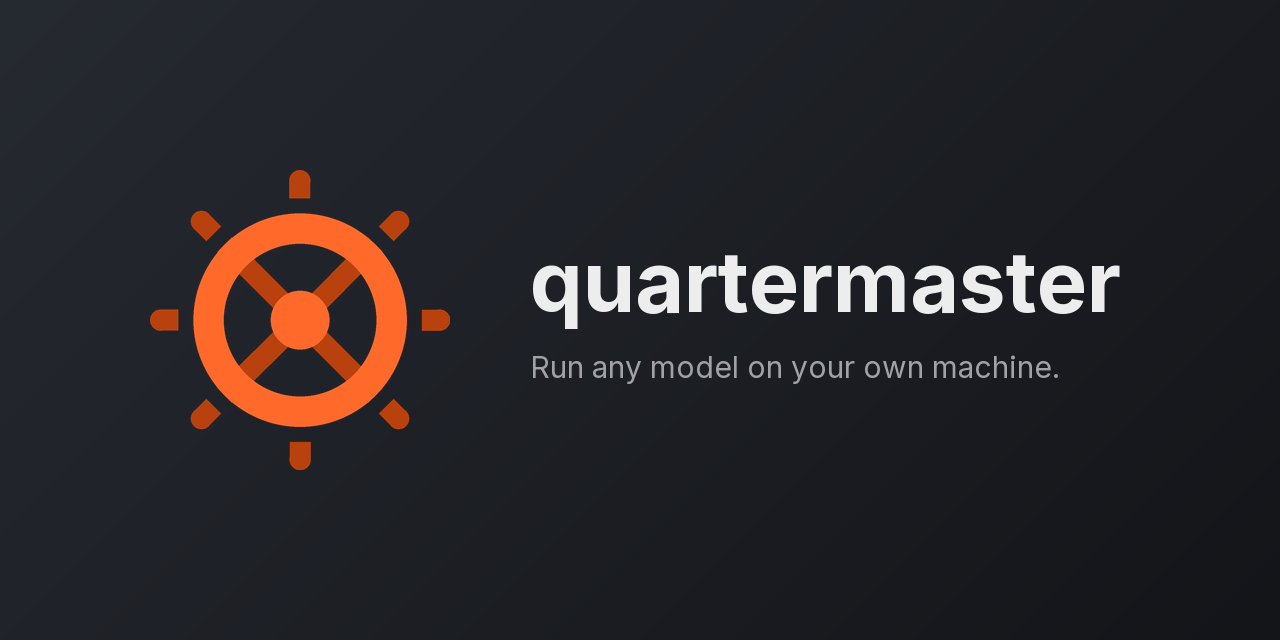
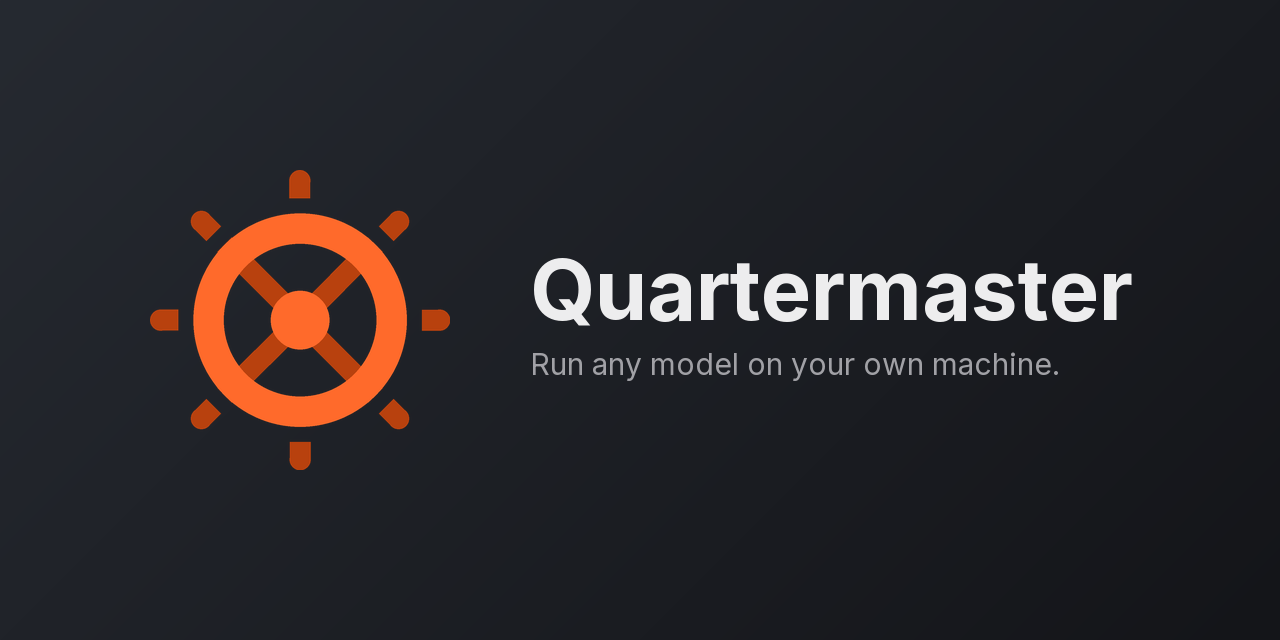
fix preview png

Changed region(s): [[0.4062, 0.4062, 0.875, 0.5312], [0.4062, 0.5312, 0.8438, 0.5938]]

diff --git a/packaging/icons/gen.py b/packaging/icons/gen.py
@@ -132,7 +132,7 @@ def social_card():
             px[x, y] = tuple(int(a[i] + (b[i] - a[i]) * t) for i in range(3))
 
     d = ImageDraw.Draw(card)
-    title, tag = "quartermaster", "Run any model on your own machine."
+    title, tag = "Quartermaster", "Run any model on your own machine."
     # Lay the lockup out from the type's real ink extents rather than from the
     # nominal line heights: Inter's ascent leaves enough slack above the
     # lowercase that a nominal centring visibly rides high.
